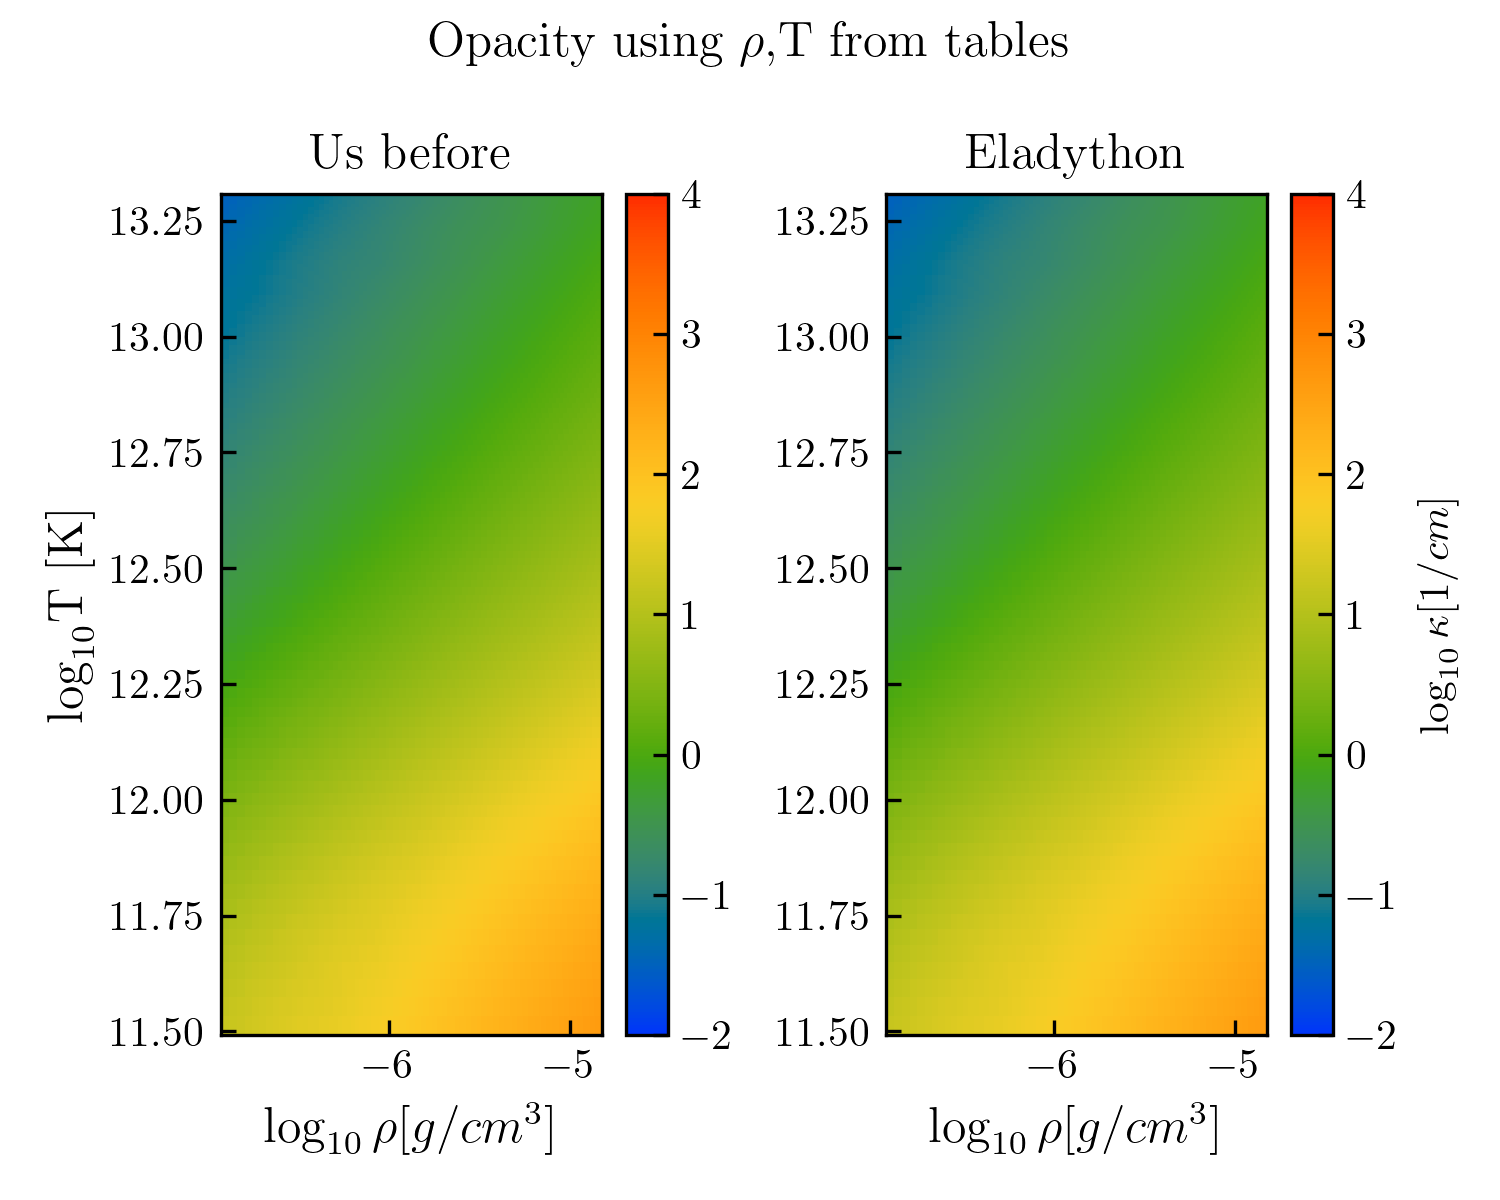
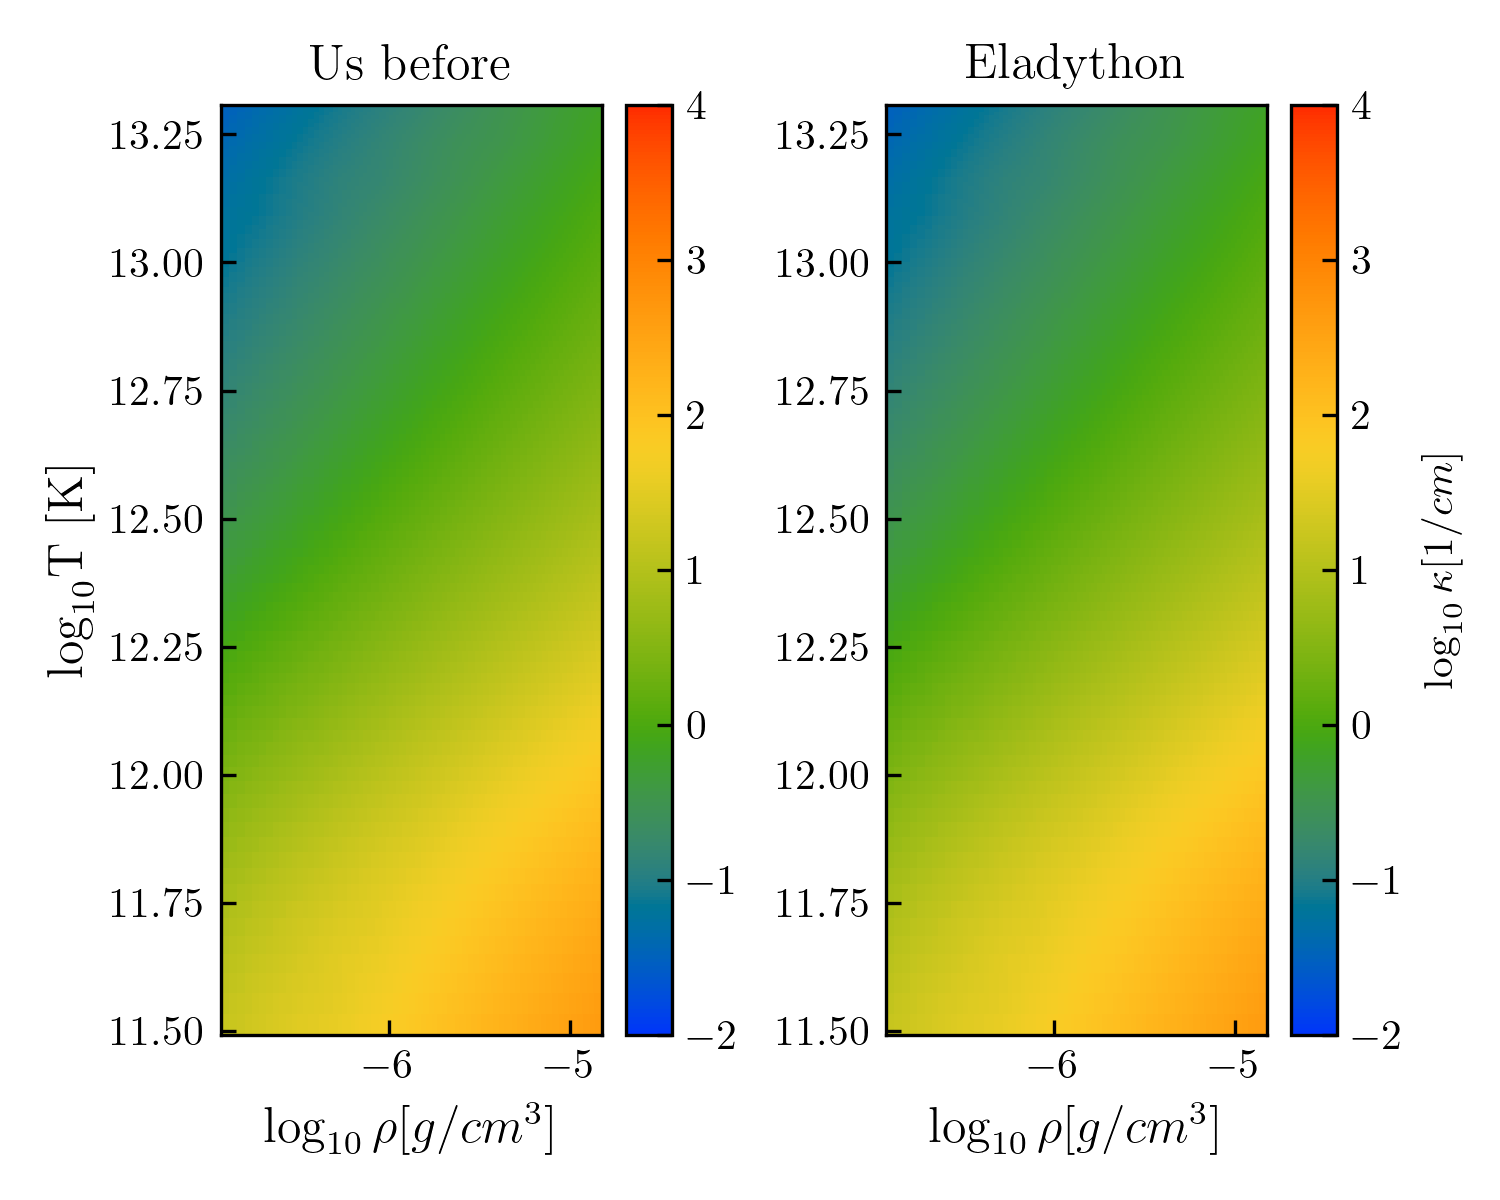
new test for opacity with values from snap308

diff --git a/src/Luminosity/Eladython.py b/src/Luminosity/Eladython.py
@@ -198,13 +198,15 @@ sigma_rossland = RegularGridInterpolator( (T_cool2, Rho_cool2), rossland2,
                                     bounds_error= False, fill_value=0)
 sigma_plank = RegularGridInterpolator( (T_cool2, Rho_cool2), plank2, 
                                    bounds_error= False, fill_value=0)
+
 sigma_rossland_eval = np.exp(sigma_rossland(np.array([np.log(t), np.log(d)]).T)) #both d and t are in CGS, thus also sigma rosseland and plank
+# with respect to our code, sigma_rossland_eval has 4/5 order of magnitude less. This + maybe multiplication for Rsol should fix the value of Lphoto
 sigma_plank_eval = np.exp(sigma_plank(np.array([np.log(t), np.log(d)]).T))
 
 # Optical Depth ---------------------------------------------------------------
 # Okay, line 232, this is the hard one.
 import scipy.integrate as sci
-r_fuT = np.flipud(r.T)
+r_fuT = np.flipud(r.T) 
 
 # We multiply for Rsol beacuse r_fuT is in solar units, kappa in cm
 kappa_rossland = np.flipud(sigma_rossland_eval) 
@@ -259,17 +261,17 @@ gradz = (gradz_p - gradz_m)/ (2*dx)
 grad = np.sqrt( (mu_x * gradx)**2 + (mu_y*grady)**2 + (mu_z*gradz)**2)
 # v_grad = np.sqrt( (VX[idx] * gradx)**2 +  (VY[idx] * grady)**2 + (VZ[idx] * gradz)**2)
 R_lamda = grad / ( c.Rsol_to_cm * sigma_rossland_eval* Rad_den[idx]) #conversion because grad is in 1/Rsol and sigma in 1/cm
-
+print(sigma_rossland_eval)
 R_lamda[R_lamda < 1e-10] = 1e-10
 fld_factor = 3 * (1/np.tanh(R_lamda) - 1/R_lamda) / R_lamda 
 
 from scipy.ndimage import uniform_filter1d # does moving mean without fucking the shape up
-smoothed_flux = -uniform_filter1d(r.T**2 * fld_factor * grad / sigma_rossland_eval, 7)
+smoothed_flux = -uniform_filter1d(r.T**2 * fld_factor * grad / sigma_rossland_eval, 7) 
 #%%
 b = np.where( ((smoothed_flux>0) & (los<2/3) ))[0][0]
 b2 = np.where(los_effective-5>0)[0][0]
 
-print(sigma_rossland_eval[b])
+# print(R_lamda[[i<b for i in range(len(los))]])
 Lphoto2 = 4*np.pi*c.c*smoothed_flux[b] * c.Msol_to_g / (c.t**2)
 if Lphoto2 < 0:
     Lphoto2 = 1e100 # it means that it will always pick max_length for the negatives, maybe this is what we are getting wrong
@@ -284,7 +286,7 @@ for k in range(b2, len(r)):
     denom[denom>300] = 300 # according to Elad to avoid overflow
     F_photo_temp[i,:] += sigma_plank_eval[k] * np.exp(-los_effective[k]) * frequencies**3 / (c.c**2 * ( np.exp(denom) - 1)) 
 
-print('Lphoto: ', Lphoto)
+print('Lphoto: ', Lphoto2)
 F_photo_temp[i,:] *= Lphoto / np.trapz(F_photo_temp[i,:], frequencies)
 # F_photo[i,:] = cross_dot[i,:] * F_photo_temp[i,:]
 

diff --git a/src/Opacity/LTE_opacity.py b/src/Opacity/LTE_opacity.py
@@ -275,9 +275,13 @@ if __name__ == '__main__':
             Tmin = np.exp(8.666)
             pre = '5/'
             fix = '308'
-            T_plot = np.linspace(1e5,6e5, 120)
+            T_snapplot = np.load(pre + fix + '/T_' + fix + '.npy') #np.linspace(1e5,6e5, 120)
+            T_snapplot = T_snapplot[::200]
+            rho_snapplot = np.load(pre + fix + '/Den_' + fix + '.npy') #np.linspace(1e-3, 8e-3, 150)
+            rho_snapplot = rho_snapplot[::200]*c.en_den_converter
+            T_plot = T_snapplot[(T_snapplot<Tmax) & (rho_snapplot<np.max(rho))]
+            rho_plot = rho_snapplot[(T_snapplot<Tmax) & (rho_snapplot<np.max(rho))]
             logT_plot = np.log(T_plot)
-            rho_plot = np.linspace(1e-3, 8e-3, 150)
             logrho_plot = np.log(rho_plot)
 
         kappa_lte = np.zeros((len(T_plot),len(rho_plot)))
@@ -296,22 +300,24 @@ if __name__ == '__main__':
 
         fig, axs = plt.subplots(1,2, tight_layout = True)
         # Old
-        img0 = axs[0].pcolormesh(logrho_plot, logT_plot, kappa_lte, cmap = 'cet_rainbow', vmin = -2, vmax = 4)
+        img0 = axs[0].pcolormesh(logrho_plot, logT_plot, kappa_lte, cmap = 'cet_rainbow', vmin = -6, vmax = 4)
         cbar0 = plt.colorbar(img0)
         axs[0].set_xlabel(r'$\log_{10}\rho [g/cm^3]$', fontsize = 12)
         axs[0].set_ylabel(r'$\log_{10}$T [K]', fontsize = 12)
         # cbar0.set_label(r'$\log_{10}\kappa [1/cm]$', fontsize = 10)
         axs[0].title.set_text('Us before')
         # Eladython
-        img1 = axs[1].pcolormesh(logrho_plot, logT_plot, log_sigma_ross, cmap = 'cet_rainbow', vmin = -2, vmax = 4)
+        img1 = axs[1].pcolormesh(logrho_plot, logT_plot, log_sigma_ross, cmap = 'cet_rainbow', vmin = -6, vmax = 4)
         cbar1 = plt.colorbar(img1)
         axs[1].set_xlabel(r'$\log_{10}\rho [g/cm^3]$', fontsize = 12)
         cbar1.set_label(r'$\log_{10}\kappa [1/cm]$', fontsize = 10)
         axs[1].title.set_text('Eladython')
 
-        plt.suptitle(r'Opacity using $\rho$,T from tables')
         if tables:
+            plt.suptitle(r'Opacity using $\rho$,T from tables')
             plt.savefig('CompareOpacityTables.png')
         else: 
-            plt.savefig('CompareOpacity.png')
+            plt.savefig('CompareOpacityFromSnap.png')
         plt.show()
+
+    

diff --git a/src/Luminosity/red_tree.py b/src/Luminosity/red_tree.py
@@ -226,13 +226,13 @@ def flux_calculator(grad_E, magnitude, selected_energy,
         
         # Calc R, eq. 28
         R_kr = magnitude[i] /  (k_ross * Energy)
+        print(k_ross)
         invR = 1 / R_kr
         R_kr = float(R_kr) # to avoid dumb thing with tanh(R)
     
         # Calc lambda, eq. 27
         coth = 1 / np.tanh(R_kr)
         lamda = invR * (coth - invR)
-        print(k_ross)
         # Calc Flux, eq. 26
         Flux =  - c.c * grad_E[i]  * lamda / k_ross
         
